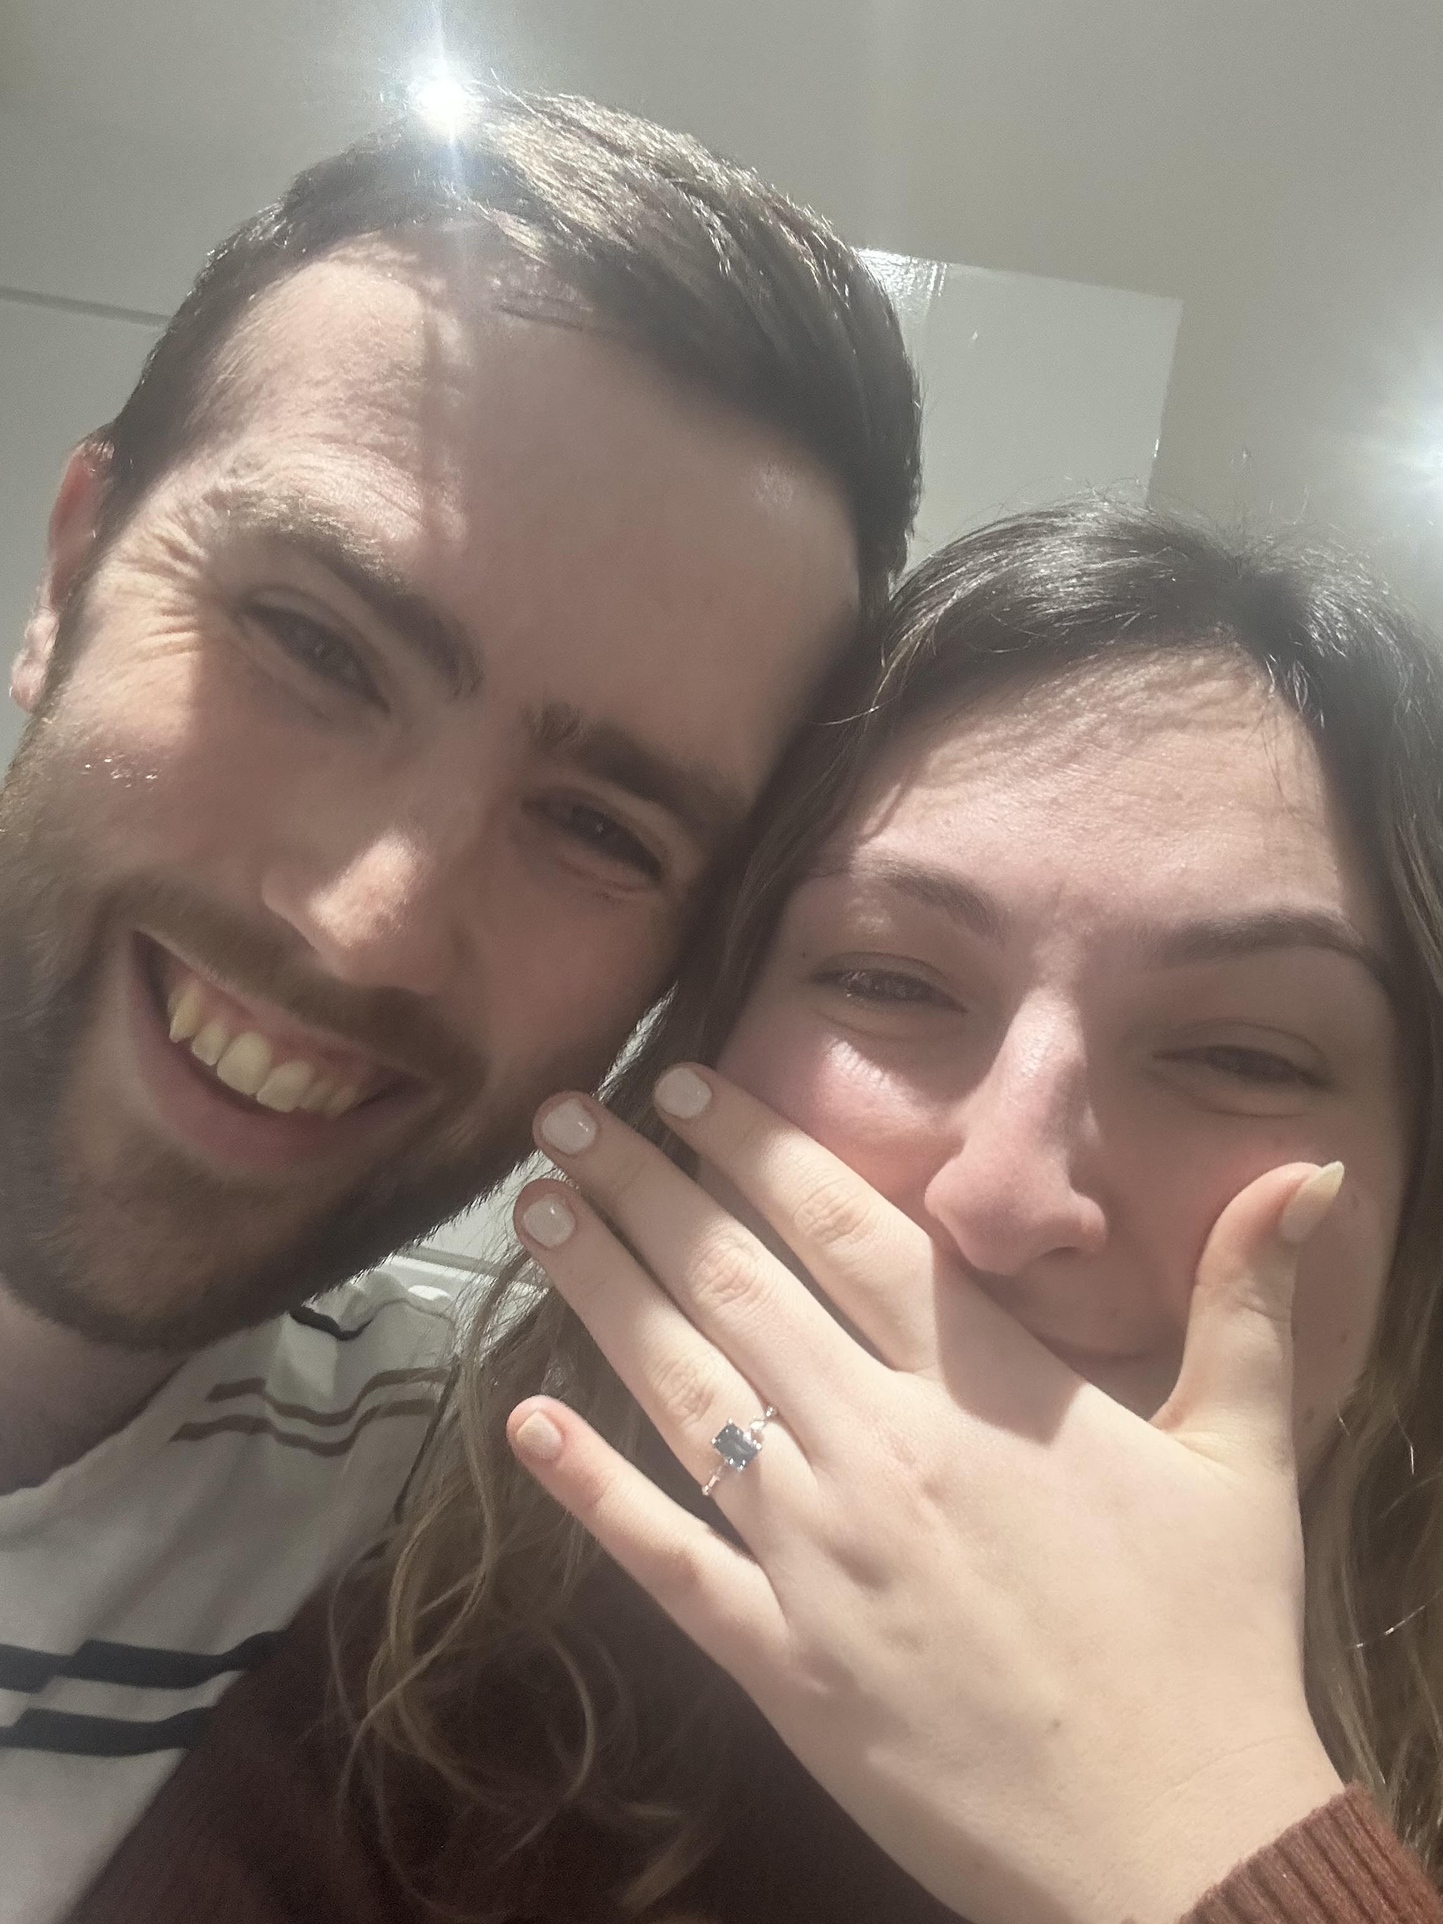
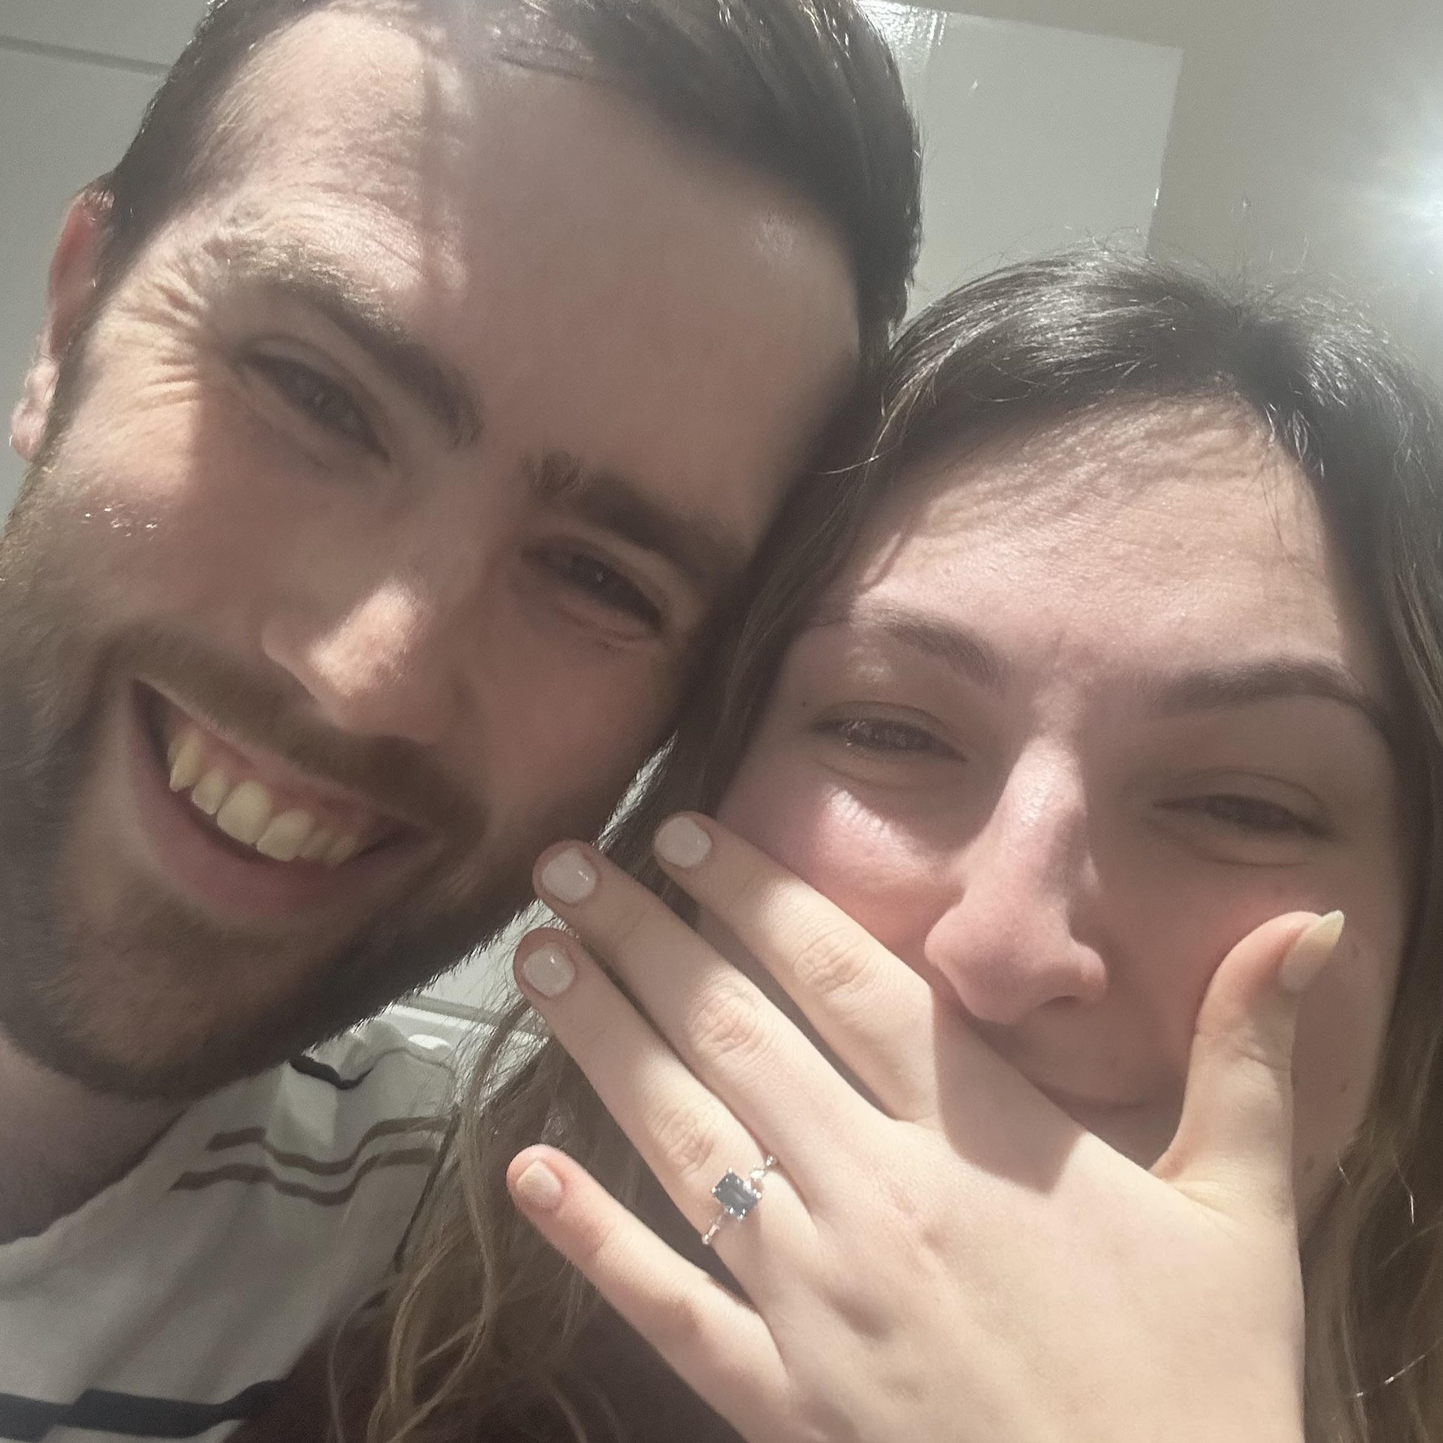
big updates from POC - images and more content

diff --git a/site/index.html b/site/index.html
@@ -107,13 +107,38 @@
             <div class="couple">
                 <img src="img/nathan.png" alt="happy couple">
                 <h3>Nathan Stephenson</h3>
-                <p>Lorem, ipsum dolor sit amet consectetur adipisicing elit. Totam unde excepturi iure nesciunt eum eius provident placeat? Placeat laudantium in dolorem mollitia voluptates, fugiat, illum, quod necessitatibus sunt eaque nihil!</p>
+                <p>
+                    Nathan grew up in Gateshead with mum Shirley, dad John, and little brother Adam.
+                    Though reserved, he's always got time for everyone, whether it's helping out, tech support, or dabbling in a bit of DIY.
+                    <br><br>
+                    When not working as an IT consultant, he's usually gaming, running, or watching sports of some form, usually football and F1.
+                    Other than that, his favourite activity is time spent with Chloe, whether it's watching TV, shopping, or having a good ol' explore.
+                    Nathan's favourite things about Chloe are her honesty, silliness, and how she brings him out of his shell.
+                    <br><br>
+                </p>
+                <p>
+                    On the wedding day, you'll most likely find Nathan in the quieter areas, taking it all in and making sure everyone's having a good time!
+                </p>
             </div>
             <div class="couple">
                 <i class="fas fa-heart"></i>
                 <img src="img/chloe.png" alt="happy couple">
                 <h3>Chloe Timlin</h3>
-                <p>Lorem, ipsum dolor sit amet consectetur adipisicing elit. Totam unde excepturi iure nesciunt eum eius provident placeat? Placeat laudantium in dolorem mollitia voluptates, fugiat, illum, quod necessitatibus sunt eaque nihil!</p>
+                <p>
+                    Chloe is a Corporate Events Manager at Lane 7, where she thrives on organizing
+                    memorable experiences and managing the intricate details of high-profile events.
+                    <br><br>
+                    She proudly claims the title of the "funny one" in her relationship with Nathan,
+                    always aiming to bring a smile to those around her with her quick wit and
+                    playful humor; but is deeply loyal and honest to her friends and family.
+                    <br><br>
+                    One of her favorite things about Nathan is his unwavering kindness and support,
+                    not to mention when he makes her laugh without even trying.
+                    Chloe loves nothing more watching TV with Nathan, whether they're diving into a
+                    gripping true crime series, laughing along with RuPaul's Drag Race, or cheering on their favorite F1 drivers.
+                    <br><br>
+                    On the wedding day, you'll find Chloe looking absolutely stunning, dancing the night away and chatting with as many of her extended family as possible!
+                </p>
             </div>
         </div>
     </div>
@@ -134,9 +159,14 @@
                         <div class="story-item">
                             <i class="fas fa-heart"></i>
                             <div class="story-text">
-                                <h3> We Meet </h3>
+                                <h3> We Meet (Again!)</h3>
                                 <span class="date">9th February 2017</span>
-                                <p>Lorem ipsum dolor sit amet consectetur adipisicing elit. Provident, optio maiores nemo amet doloribus earum suscipit quaerat in sequi voluptatem enim, quas ipsum dicta autem, deleniti aliquam accusamus culpa itaque!</p>
+                                <p>
+                                    We actually met 4 months prior to this through social media, going on a "classic" drinks date at Wetherspoons.
+                                    For reasons we still disagree on to this day a second date didn't follow on. <br>
+                                    But, everything happens for a reason, and by chance on a night out with our respective friend groups,
+                                    we reunited, and have been inseperable since.
+                                </p>
                             </div>
                             <div class="story-img">
                                 <img src="img/first_meet_2.jpg" alt="chloe and nathan">
@@ -148,11 +178,15 @@
                             <i class="fas fa-heart"></i>
                             <div class="story-text">
                                 <h3> Our First Holiday </h3>
-                                <span class="date">9th February 2017</span>
-                                <p>Lorem ipsum dolor sit amet consectetur adipisicing elit. Provident, optio maiores nemo amet doloribus earum suscipit quaerat in sequi voluptatem enim, quas ipsum dicta autem, deleniti aliquam accusamus culpa itaque!</p>
+                                <span class="date">5th July 2017</span>
+                                <p>
+                                    Prior to 2017, Nathan hadn't been abroad in around 10 years, so when Chloe suggested going to Barcelona together, you can imagine he was quite apprehensive (and a bit clueless!).
+                                    <br><br>
+                                    Chloe made sure to keep him right though
+                                </p>
                             </div>
                             <div class="story-img">
-                                <img src="img/barcelona.jpg" alt="chloe and nathan">
+                                <img src="img/barcelona-crop.jpg" alt="chloe and nathan">
                             </div>
                         </div>
                         <!-- Story Item End -->
@@ -162,7 +196,11 @@
                             <div class="story-text">
                                 <h3> Moving In </h3>
                                 <span class="date">9th February 2017</span>
-                                <p>Lorem ipsum dolor sit amet consectetur adipisicing elit. Provident, optio maiores nemo amet doloribus earum suscipit quaerat in sequi voluptatem enim, quas ipsum dicta autem, deleniti aliquam accusamus culpa itaque!</p>
+                                <p>
+                                    Lorem ipsum dolor sit amet consectetur adipisicing elit.
+                                    Provident, optio maiores nemo amet doloribus earum suscipit quaerat in sequi
+                                    voluptatem enim, quas ipsum dicta autem, deleniti aliquam accusamus culpa itaque!
+                                </p>
                             </div>
                             <div class="story-img">
                                 <img src="img/Engagement_Party.jpg" alt="chloe and nathan">
@@ -174,8 +212,11 @@
                             <i class="fas fa-heart"></i>
                             <div class="story-text">
                                 <h3> Graduating Together </h3>
-                                <span class="date">9th February 2017</span>
-                                <p>Lorem ipsum dolor sit amet consectetur adipisicing elit. Provident, optio maiores nemo amet doloribus earum suscipit quaerat in sequi voluptatem enim, quas ipsum dicta autem, deleniti aliquam accusamus culpa itaque!</p>
+                                <span class="date">July 2019</span>
+                                <p>
+                                    After 3 and 4 years of hard work for Chloe and Nathan respectively, the pair graduated from university in the summer of 2019.
+                                    Chloe graduated from Northumbria University with a BSc in Psychology, whilst Nathan achieved an MPhys Physics from Newcastle University.
+                                </p>
                             </div>
                             <div class="story-img">
                                 <img src="img/chloe_graduation.jpg" alt="chloe and nathan">
@@ -186,9 +227,9 @@
                         <div class="story-item">
                             <i class="fas fa-heart"></i>
                             <div class="story-text">
-                                <h3> Our First Home </h3>
-                                <span class="date">9th February 2017</span>
-                                <p>Lorem ipsum dolor sit amet consectetur adipisicing elit. Provident, optio maiores nemo amet doloribus earum suscipit quaerat in sequi voluptatem enim, quas ipsum dicta autem, deleniti aliquam accusamus culpa itaque!</p>
+                                <h3> Our First Official Home </h3>
+                                <span class="date">22nd July 2022</span>
+                                <p>Following a lot of fun </p>
                             </div>
                             <div class="story-img">
                                 <img src="img/first_home.jpg" alt="chloe and nathan">
@@ -217,13 +258,11 @@
                                 <h3> We Get Married! </h3>
                                 <span class="date">9th July 2025</span>
                                 <p>
-                                    Lorem ipsum dolor sit amet consectetur adipisicing elit.
-                                    Provident, optio maiores nemo amet doloribus earum suscipit quaerat in sequi voluptatem enim,
-                                    quas ipsum dicta autem, deleniti aliquam accusamus culpa itaque!
+                                    We can't wait to share our special day with you, our loved ones, at Lemmington Hall, for a day of celebrations, drinks, and dancing the night away as we take this next step in our life!
                                 </p>
                             </div>
                             <div class="story-img">
-                                <img src="img/Engagement_Party.jpg" alt="chloe and nathan">
+                                <img src="img/grand-staircase-ceremony-2.jpg" alt="chloe and nathan">
                             </div>
                         </div>
                         <!-- Story Item End -->
@@ -270,7 +309,6 @@
                         NE66 2BH,
                         United Kingdom
                     </p>
-                    <img src="img/flower.svg" alt="event-icon">
                 </div>
             </div>
             <!-- Item End -->
@@ -288,7 +326,6 @@
                         NE66 2BH,
                         United Kingdom
                     </p>
-                    <img src="img/flower.svg" alt="event-icon">
                 </div>
             </div>
             <!-- Item End -->
@@ -303,60 +340,65 @@
         <div class="row">
             <div class="section-title">
                 <h2>Accommodation</h2>
+                <p>Below are a few recommended choices of accommodation for the venue, if none of these take your fancy,
+                    Lemmington Hall have kindly provided an extended list, available to download below the initial 3.</p>
             </div>
         </div>
         <div class="row justify-content-center">
             <!-- Item Start -->
             <div class="accommodation-item">
                 <div class="accommodation-item-inner">
-                    <h3> Hotel 1 </h3>
-                    <span class="date">Wednesday 9th July, 2025</span>
+                    <h3> Alnwick Premier Inn </h3>
+                    <!-- <span class="date">Wednesday 9th July, 2025</span>
                     <span class="time">13:00</span>
                     <p>
                         Lemmington Hall
-                    </p>
+                    </p> -->
                     <p>
+                        Willowburn Trading Estate,
+                        South Road,
                         Alnwick,
-                        NE66 2BH,
-                        United Kingdom
+                        NE66 2PF
                     </p>
-                    <a href="#" class="btn-1">Book</a>
+                    <a href="https://www.premierinn.com/gb/en/hotels/england/northumberland/alnwick/alnwick.html" class="btn-1">Book</a>
                 </div>
             </div>
             <!-- Item End -->
             <!-- Item Start -->
             <div class="accommodation-item">
                 <div class="accommodation-item-inner">
-                    <h3> Hotel 2 </h3>
-                    <span class="date">Wednesday 9th July, 2025</span>
+                    <h3> The Dirty Bottles Inn </h3>
+                    <!-- <span class="date">Wednesday 9th July, 2025</span>
                     <span class="time">13:00</span>
                     <p>
                         Lemmington Hall
-                    </p>
+                    </p> -->
                     <p>
-                        Alnwick,
-                        NE66 2BH,
-                        United Kingdom
+                        32 Narrowgate,
+                        Alnwick
+                        NE66 1JG
                     </p>
-                    <a href="#" class="btn-1">Book</a>
+                    <a href="https://www.thedirtybottles.co.uk/" class="btn-1">Book</a>
                 </div>
             </div>
             <!-- Item End -->
             <!-- Item Start -->
             <div class="accommodation-item">
                 <div class="accommodation-item-inner">
-                    <h3> Hotel 3 </h3>
-                    <span class="date">Wednesday 9th July, 2025</span>
+                    <h3> The Hog's Head Inn </h3>
+                    <!-- <span class="date">Wednesday 9th July, 2025</span>
                     <span class="time">13:00</span>
                     <p>
                         Lemmington Hall
-                    </p>
+                    </p> -->
                     <p>
+                        The Hog's Head Inn,
+                        Hawfinch Drive,
                         Alnwick,
-                        NE66 2BH,
-                        United Kingdom
+                        Northumberland,
+                        NE66 2BF
                     </p>
-                    <a href="#" class="btn-1">Book</a>
+                    <a href="https://www.inncollectiongroup.com/hogs-head-inn/" class="btn-1">Book</a>
                 </div>
             </div>
             <!-- Item End -->
@@ -395,7 +437,34 @@
                 <div class="people-item-inner">
                     <img src="img/cook.jpg">
                     <h4> Josh Cook</h4>
-                    <p> Friend </p>
+                    <p> Groomsman </p>
+                </div>
+            </div>
+            <!-- People Item End -->
+            <!-- People Item Start -->
+            <div class="people-item" data-category="groom">
+                <div class="people-item-inner">
+                    <img src="img/Mam.jpg">
+                    <h4> Shirley Stephenson</h4>
+                    <p> Nathan's Mam </p>
+                </div>
+            </div>
+            <!-- People Item End -->
+            <!-- People Item Start -->
+            <div class="people-item" data-category="groom">
+                <div class="people-item-inner">
+                    <img src="img/Dad.jpg">
+                    <h4> John Stephenson</h4>
+                    <p> Nathan's Dad </p>
+                </div>
+            </div>
+            <!-- People Item End -->
+            <!-- People Item Start -->
+            <div class="people-item" data-category="groom">
+                <div class="people-item-inner">
+                    <img src="img/Adam.jpg">
+                    <h4> Adam Stephenson </h4>
+                    <p> Nathan's Brother</p>
                 </div>
             </div>
             <!-- People Item End -->
@@ -408,7 +477,7 @@
             <div class="people-item-inner">
                 <img src="img/amy.jpg">
                 <h4> Amy Thornton</h4>
-                <p> Maid of Honour </p>
+                <p> Maid of Honour</p>
             </div>
         </div>
         <!-- People Item End -->
@@ -417,7 +486,7 @@
             <div class="people-item-inner">
                 <img src="img/jasmine.jpg">
                 <h4> Jasmine Guy </h4>
-                <p> Chloe's Friend </p>
+                <p> Bridesmaid </p>
             </div>
         </div>
         <!-- People Item End -->
@@ -425,8 +494,17 @@
         <div class="people-item" data-category="bride">
             <div class="people-item-inner">
                 <img src="img/kirstie.jpg">
-                <h4> Kirstie Wood </h4>
-                <p> Chloe's Sister </p>
+                <h4> Kirstie, Freya, & Eva </h4>
+                <p> Chloe's Sister & Nieces </p>
+            </div>
+        </div>
+        <!-- People Item End -->
+        <!-- People Item Start -->
+        <div class="people-item" data-category="bride">
+            <div class="people-item-inner">
+                <img src="img/Jim_Lesley.jpg">
+                <h4> Jim & Lesley Timlin </h4>
+                <p> Chloe's Parents </p>
             </div>
         </div>
         <!-- People Item End -->
@@ -449,7 +527,7 @@
         <!-- Gallery Item -->
         <div class="gallery-item">
             <div class="gallery-item-inner">
-                <img src="img/gallery/graduation_chloe.png" data-large="img/gallery/graduation_chloe.png" alt="Chloe's graduation">
+                <img src="img/gallery/engagement_party.jpg" data-large="img/gallery/graduation_chloe.png" alt="Chloe's graduation">
             </div>
         </div>
         <!-- Gallery Item End -->
@@ -477,14 +555,14 @@
         <!-- Gallery Item -->
         <div class="gallery-item">
             <div class="gallery-item-inner">
-                <img src="img/gallery/greece_holiday.png" data-large="img/gallery/greece_holiday.png" alt="Chloe's graduation">
+                <img src="img/gallery/turkey-holiday.jpg" data-large="img/gallery/greece_holiday.png" alt="Chloe's graduation">
             </div>
         </div>
         <!-- Gallery Item End -->
         <!-- Gallery Item -->
         <div class="gallery-item">
             <div class="gallery-item-inner">
-                <img src="img/gallery/proposal.png" data-large="img/gallery/proposal.png" alt="Chloe's graduation">
+                <img src="img/gallery/physics-ball.jpg" data-large="img/gallery/proposal.png" alt="Chloe's graduation">
             </div>
         </div>
         <!-- Gallery Item End -->

diff --git a/site/css/skins/green.css b/site/css/skins/green.css
@@ -7,18 +7,18 @@
 .couple-section .couple i.fa-heart,
 .header .nav ul li a.active,
 .header .nav ul li a:hover {
-    color: #97b97b;
+    color: #b6c1a2;
 }
 
 .btn-1,
 .event-section .event-item-inner::before,
 .accommodation-section .accommodation-item-inner::before,
 .couple-section .couple img {
-    border-color: #97b97b;
+    border-color: #b6c1a2;
 }
 
 .rsvp-section, .btn-1,
 .people-section .filter-btn.active,
 .event-section {
-    background-color: #8dbd67;
+    background-color: #b6c1a2;
 }

diff --git a/site/css/style.css b/site/css/style.css
@@ -36,7 +36,7 @@ img {
 }
 
 .container {
-    max-width: 1140px;
+    max-width: 1180px;
     margin: auto;
 }
 
@@ -676,10 +676,9 @@ header, section, footer {
 }
 
 .people-section .people-item {
-    flex: 0 0 25%;
+    flex: 0 0 20%;
     max-width: 25%;
     padding: 15px;
-    margin-top: 25px;
     display: none;
 }
 
